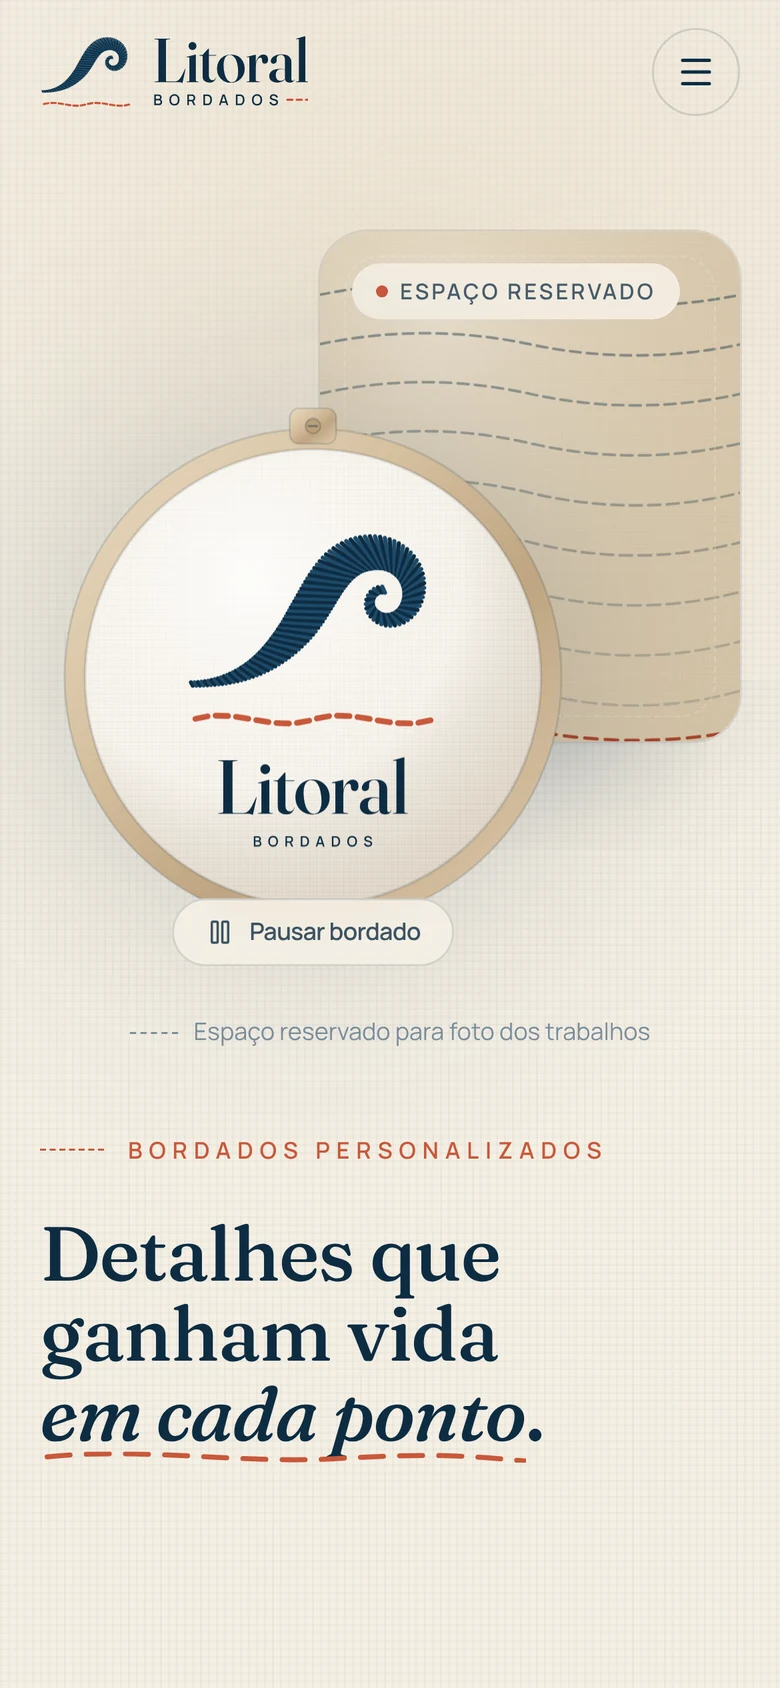
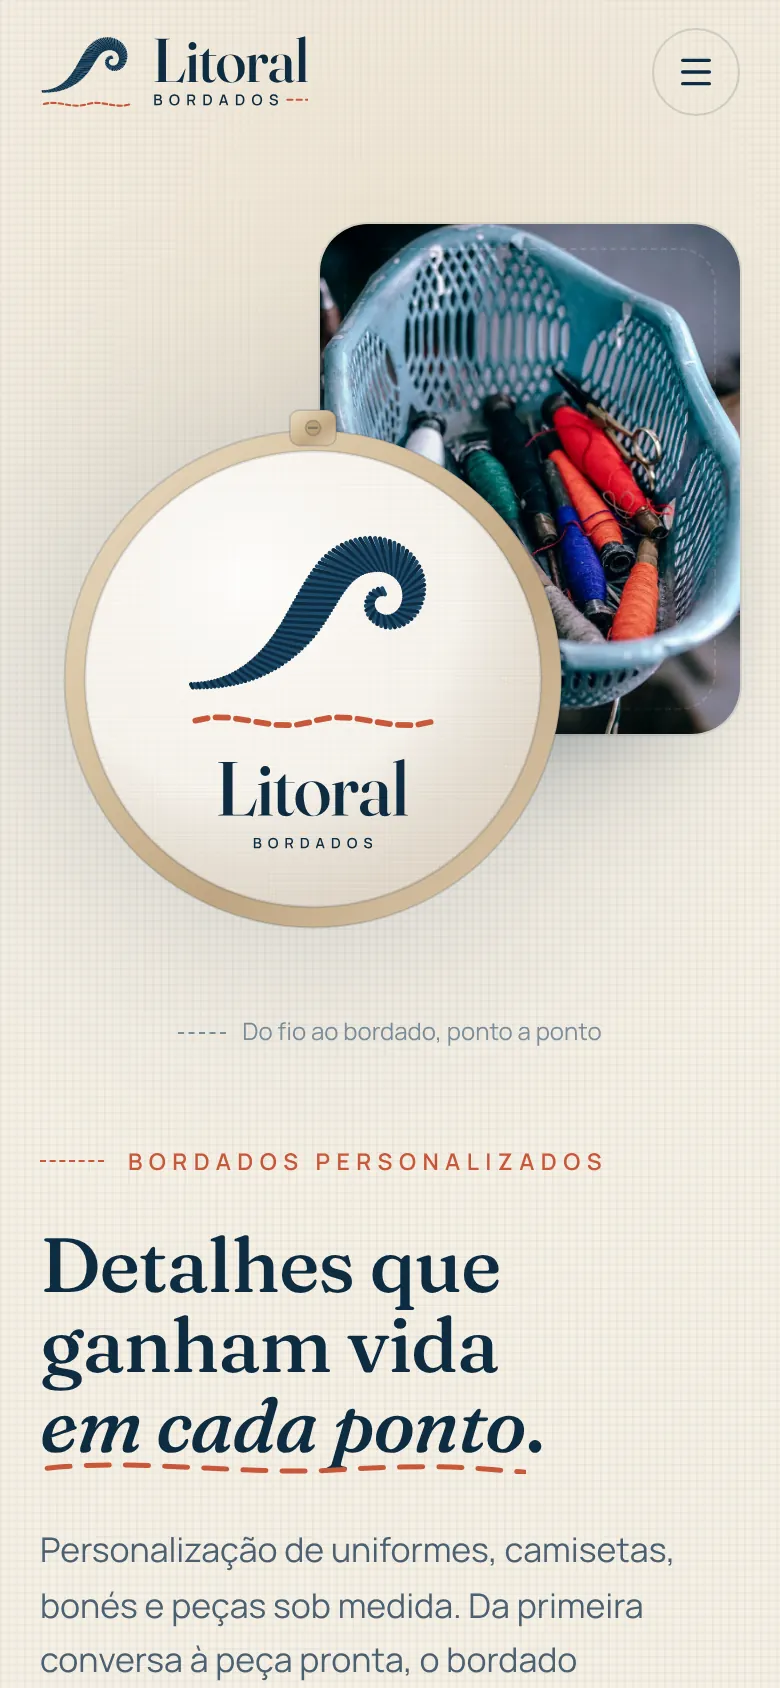
Litoral Bordados volta ao portfólio como projeto conceitual
- Capturas novas do site publicado (sem espaços reservados)
- Entra depois da Barbearia Cobre, com destaques em linguagem de cliente
- Grade: o projeto com selo ocupa a linha inteira e o cartão "O próximo
  pode ser o seu" sempre fecha a grade, com 5 ou 6 projetos

Claude-Session: https://claude.ai/code/session_01UWFsgXJgaCuuedxvUqsunG

diff --git a/src/components/sections/projects/Projects.tsx b/src/components/sections/projects/Projects.tsx
@@ -97,9 +97,14 @@ export function Projects() {
   const copy = dict.projects;
   const onPointerMove = useSpotlight<HTMLDivElement>();
   const projects = publishedProjects;
-  // Um card "o próximo pode ser o seu" completa a grade quando ela fica ímpar
-  // ou com um só item, e leva direto ao WhatsApp.
-  const showMore = projects.length === 0 || projects.length % 2 === 1;
+  // O primeiro projeto ocupa a linha inteira quando tem selo de destaque (ou
+  // quando a conta não fecha em pares); os demais formam pares.
+  const featuredFirst =
+    projects.length === 1 || (projects.length > 1 && (Boolean(projects[0].badge) || projects.length % 2 === 1));
+  const paired = projects.length - (featuredFirst ? 1 : 0);
+  // O card "o próximo pode ser o seu" sempre fecha a grade e leva ao WhatsApp:
+  // ocupa o espaço que sobra no último par ou uma linha inteira.
+  const moreFillsGap = paired % 2 === 1;
 
   return (
     <section
@@ -129,43 +134,44 @@ export function Projects() {
           {projects.map((project, index) => (
             <div
               key={project.slug}
-              className={cn(projects.length > 1 && index === 0 && projects.length % 2 === 1 && "lg:col-span-2")}
+              className={cn(projects.length > 1 && index === 0 && featuredFirst && "lg:col-span-2")}
             >
               {/* Layout de destaque só quando o cartão ocupa a linha inteira. */}
-              <ProjectCard project={project} featured={projects.length === 1 || (index === 0 && projects.length % 2 === 1)} />
+              <ProjectCard project={project} featured={index === 0 && featuredFirst} />
             </div>
           ))}
 
-          {showMore && (
-            <div
-              data-reveal
-              style={revealDelay(120)}
-              className={cn(
-                "flex flex-col gap-6 rounded-[2rem] border border-dashed border-(--line-strong) p-6 sm:flex-row sm:items-center sm:justify-between sm:p-8",
-                projects.length > 1 && "lg:col-span-2",
-              )}
-            >
-              <div className="flex items-start gap-5">
-                <span className="grid size-12 shrink-0 place-items-center rounded-2xl border border-(--line-strong) bg-white/[0.03] text-accent-200">
-                  <MessageCircle aria-hidden="true" className="size-5" strokeWidth={1.6} />
-                </span>
-                <div>
-                  <h3 className="text-lg font-semibold tracking-tight">{copy.more.title}</h3>
-                  <p className="mt-1.5 max-w-xl text-[15px] leading-relaxed text-muted">{copy.more.text}</p>
-                </div>
+          <div
+            data-reveal
+            style={revealDelay(120)}
+            className={cn(
+              "flex flex-col gap-6 rounded-[2rem] border border-dashed border-(--line-strong) p-6 sm:p-8",
+              moreFillsGap
+                ? "justify-center sm:flex-row sm:items-center sm:justify-between lg:flex-col lg:items-start lg:justify-center"
+                : "sm:flex-row sm:items-center sm:justify-between",
+              projects.length > 1 && !moreFillsGap && "lg:col-span-2",
+            )}
+          >
+            <div className="flex items-start gap-5">
+              <span className="grid size-12 shrink-0 place-items-center rounded-2xl border border-(--line-strong) bg-white/[0.03] text-accent-200">
+                <MessageCircle aria-hidden="true" className="size-5" strokeWidth={1.6} />
+              </span>
+              <div>
+                <h3 className="text-lg font-semibold tracking-tight">{copy.more.title}</h3>
+                <p className="mt-1.5 max-w-xl text-[15px] leading-relaxed text-muted">{copy.more.text}</p>
               </div>
-              <ButtonLink
-                href={whatsappUrl(dict.whatsappMessage)}
-                external
-                leading={<BrandLogo name="whatsapp" tone="mono" className="size-4" />}
-                icon={ArrowUpRight}
-                iconMotion="diag"
-                className="shrink-0"
-              >
-                {copy.more.cta}
-              </ButtonLink>
             </div>
-          )}
+            <ButtonLink
+              href={whatsappUrl(dict.whatsappMessage)}
+              external
+              leading={<BrandLogo name="whatsapp" tone="mono" className="size-4" />}
+              icon={ArrowUpRight}
+              iconMotion="diag"
+              className="shrink-0"
+            >
+              {copy.more.cta}
+            </ButtonLink>
+          </div>
         </div>
       </div>
     </section>

diff --git a/src/data/projects.ts b/src/data/projects.ts
@@ -192,6 +192,51 @@ export const projects: Project[] = [
     liveUrl: "https://barbearia-cobre.vercel.app",
   },
   {
+    slug: "litoral-bordados",
+    title: "Litoral Bordados",
+    published: true,
+    year: "2026",
+    kind: {
+      "pt-BR": "Projeto conceitual · Site profissional",
+      en: "Concept project · Business website",
+    },
+    description: {
+      "pt-BR":
+        "Site para uma empresa fictícia de bordados personalizados, com identidade visual própria e uma animação no topo em que a agulha borda a marca, ponto a ponto.",
+      en: "Website for a fictional custom embroidery business, with its own visual identity and an animation at the top where a needle stitches the brand mark, one stitch at a time.",
+    },
+    highlights: {
+      "pt-BR": [
+        "A agulha borda a logo no topo da página, com botão para pausar a animação",
+        "Galeria com peças de exemplo: uniforme, boné, jaleco, toalha e patch",
+        "Pedido de orçamento direto no WhatsApp, com a mensagem já escrita",
+        "Identidade visual criada do zero: logo, cores e ícones em pesponto",
+      ],
+      en: [
+        "A needle stitches the logo at the top of the page, with a button to pause the animation",
+        "A gallery of sample pieces: uniform, cap, lab coat, towel and patch",
+        "Quote requests straight to WhatsApp, with the message already written",
+        "Visual identity built from scratch: logo, colors and stitched icons",
+      ],
+    },
+    stack: [
+      { name: "Next.js", logo: "nextjs" },
+      { name: "React", logo: "react" },
+      { name: "TypeScript", logo: "typescript" },
+      { name: "Tailwind CSS", logo: "tailwind" },
+    ],
+    images: {
+      desktop: litoralDesktop,
+      mobile: litoralMobile,
+      alt: {
+        "pt-BR": "Captura de tela do site da Litoral Bordados, projeto conceitual, com o bastidor bordando a marca",
+        en: "Screenshot of the Litoral Bordados concept website, with the embroidery hoop stitching the brand",
+      },
+    },
+    repoUrl: "https://github.com/saymonthedev/litoral-bordados",
+    liveUrl: "https://litoralbordados.com",
+  },
+  {
     slug: "crosta",
     title: "Crosta",
     published: true,
@@ -280,53 +325,6 @@ export const projects: Project[] = [
     },
     repoUrl: "https://github.com/saymonthedev/dominio-politico",
     liveUrl: "https://dominio-politico.com.br",
-  },
-  {
-    slug: "litoral-bordados",
-    title: "Litoral Bordados",
-    // Fora do site até o site da Litoral ter as fotos dos trabalhos e os
-    // canais de atendimento (hoje mostra "espaço reservado" no lugar deles).
-    published: false,
-    year: "2026",
-    kind: {
-      "pt-BR": "Cliente · Landing page",
-      en: "Client project · Landing page",
-    },
-    description: {
-      "pt-BR":
-        "Landing page feita para a Litoral Bordados, empresa de bordados personalizados, com identidade visual própria e uma animação autoral no topo da página: uma agulha borda, ponto a ponto, o mesmo desenho da marca.",
-      en: "Landing page built for Litoral Bordados, a custom embroidery business, with its own visual identity and a signature animation at the top of the page: a needle stitches the brand mark, one stitch at a time.",
-    },
-    highlights: {
-      "pt-BR": [
-        "Animação “Do fio ao bordado” feita à mão com SVG e CSS",
-        "Respeita a preferência de movimento reduzido e tem controle de pausa",
-        "Rolagem com inércia e parallax entre as seções",
-        "Gerado como site estático, preparado para publicação na Cloudflare",
-      ],
-      en: [
-        "Hand-built “thread to stitch” animation in SVG and CSS",
-        "Honors reduced-motion preferences and includes a pause control",
-        "Inertia scrolling and parallax between sections",
-        "Built as a static site, set up for deployment on Cloudflare",
-      ],
-    },
-    stack: [
-      { name: "Next.js", logo: "nextjs" },
-      { name: "React", logo: "react" },
-      { name: "TypeScript", logo: "typescript" },
-      { name: "Tailwind CSS", logo: "tailwind" },
-    ],
-    images: {
-      desktop: litoralDesktop,
-      mobile: litoralMobile,
-      alt: {
-        "pt-BR": "Captura de tela do site da Litoral Bordados",
-        en: "Screenshot of the Litoral Bordados website",
-      },
-    },
-    repoUrl: "https://github.com/saymonthedev/litoral-bordados",
-    liveUrl: "https://litoralbordados.com",
   },
 ];
 

diff --git a/README.md b/README.md
@@ -83,12 +83,12 @@ O dicionário em inglês tem o mesmo tipo do português: se um texto faltar em u
 1. Salve as capturas reais em `src/assets/projects/` — a de computador deve ser a **página inteira** (a prévia percorre a imagem no hover); a de celular é opcional.
 2. Em `src/data/projects.ts`, importe as imagens e copie o item existente.
 3. `published: false` mantém o projeto fora do site até ser aprovado; `liveUrl` só deve ser preenchido com um endereço confirmado no ar.
-4. Para destacar um projeto, preencha `badge` (o selo, nos dois idiomas) e deixe-o em primeiro na lista: com um número ímpar de projetos, o primeiro ocupa a linha inteira. Hoje o destaque é a ORTS Climatização.
+4. Para destacar um projeto, preencha `badge` (o selo, nos dois idiomas) e deixe-o em primeiro na lista: ele ocupa a linha inteira e os demais formam pares. Hoje o destaque é a ORTS Climatização.
 5. Escreva os destaques pensando em quem contrata (o que o cliente ganha), não em quem programa: as tecnologias já aparecem nos selos do cartão.
 
-O layout se adapta à quantidade de projetos: com um número ímpar, um cartão “O próximo pode ser o seu”, com botão para o WhatsApp, completa a grade.
+O layout se adapta à quantidade de projetos: o cartão “O próximo pode ser o seu”, com botão para o WhatsApp, sempre fecha a grade, no espaço que sobra do último par ou numa linha própria.
 
-A Litoral Bordados está com `published: false` até o site dela ter as fotos dos trabalhos e os canais de atendimento.
+Ordem atual: clientes (ORTS, Stainhaus), projetos conceituais (Barbearia Cobre, Litoral Bordados, Crosta) e o projeto pessoal (Domínio Político).
 
 ### Página pensada para quem contrata
 
